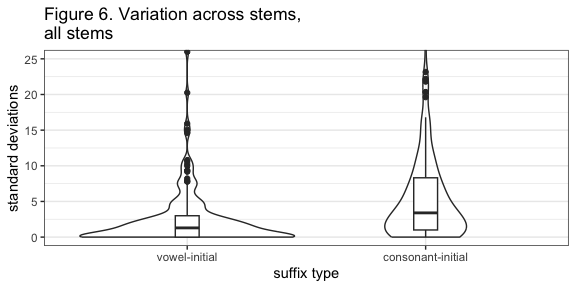
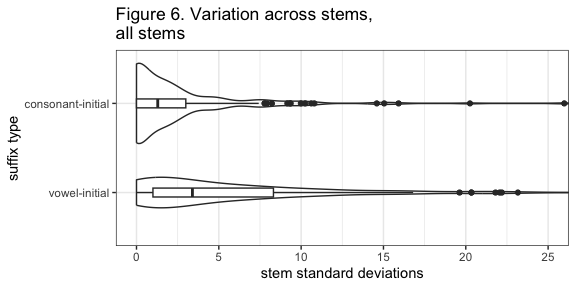
kesz

diff --git a/Readme.md b/Readme.md
@@ -7,27 +7,48 @@ Rácz, Péter & Rebrus, Péter
 
 This readme uses Hungarian orthography. Hungarian is largely phonemic,
 uses accents for vowel frontedness and length and digraphs for some
-consonants. Notable differences: \<a\> (\[ɒ\]), \<e\> (\[ɛ\]), \<á\>
-(\[aː\]), \<é\> (\[eː\]), \<í\> (\[iː\]), \<ó\> (\[oː\]), \<ö\> (\[ø\]),
-\<ő\> (\[øː\]), \<ú\> (\[uː\]), \<ü\> (\[y\]), \<ű\> (\[yː\]), \<cs\>
-(\[tʃ\]), \<dz\> (\[dz\]), \<dzs\> (\[dʒ\]), \<gy\> (\[ɟ\]), \<ly\>
-(\[j\]), \<ny\> (\[ɲ\]), \<sz\> (\[s\]), \<ty\> (\[c\]), \<zs\> (\[ʒ\]).
+consonants. Notable differences are listed in Table 1
 
-We refer to the suffixed postposition as “suffix” such that different
-word endings are different variants of the same suffix. We refer to the
+| spelling | IPA |
+|----------|-----|
+| a        | ɒ   |
+| e        | ɛ   |
+| á        | aː  |
+| é        | eː  |
+| í        | iː  |
+| ó        | oː  |
+| ö        | ø   |
+| ő        | øː  |
+| ú        | uː  |
+| ü        | y   |
+| ű        | yː  |
+| cs       | tʃ  |
+| dz       | dz  |
+| dzs      | dʒ  |
+| gy       | ɟ   |
+| ly       | j   |
+| ny       | ɲ   |
+| sz       | s   |
+| ty       | c   |
+| zs       | ʒ   |
+
+Table 1: Spelling and IPA for Hungarian special characters.
+
+We refer to the suffixed postposition as “suffix” so that different word
+endings are different variants of the same suffix. We refer to the
 unsuffixed stem and the lemma as “stem”. We refer to the suffixed stem
 as “form”.
 
 ## Background
 
 Hungarian shows vowel harmony. Noun suffixes typically have back- and
-front-vowel variants which are selected to agree with the last vowel of
-the stem: *Rómában* (Rome-ine), *Berlinnek* (Berlin-dat).
+front-vowel variants which agree with the last vowel of the stem:
+*Rómá-ban* (Rome-ine), *Berlin-nek* (Berlin-dat).
 
 Historically, \<eéií\> are transparent and skipped by vowel harmony:
-*Tallinban* (Tallin-loc), *Maléban* (Malé-ine). \<e\> has become
+*Tallin-ban* (Tallin-loc), *Malé-ban* (Malé-ine). \<e\> has become
 variable, meaning that back vowel + \<e\> stems vary between back and
-front suffixes: *Tangernak* / *Tangernek* (Tanger-dat).
+front suffixes: *Tanger-nak* / *Tanger-nek* (Tanger-dat).
 
 Suffixes can be vowel-initial, like the plural, or consonant-initial,
 like the dative: *Párizs-ok* (Paris-pl), *London-nak* (London-dat).
@@ -61,9 +82,9 @@ types that co-occur with these nouns. The resulting list has 200 stems
 and 4501 suffixed forms. All stems are consonant-final.
 
 A sample of the data for the stem *dzsungel* (jungle) can be seen in
-Table 1.
+Table 2.
 
-| suffix   | form        |  freq | examples              |
+| suffix   | form        |  freq | suffix examples       |
 |:---------|:------------|------:|:----------------------|
 | Pl       | dzsungelek  |  1010 | haverok, projektek    |
 | Pl       | dzsungelok  |     1 | haverok, projektek    |
@@ -83,19 +104,19 @@ Table 1.
 | All      | dzsungelhez |   146 | matekhoz, projekthez  |
 | All      | dzsungelhoz |     2 | matekhoz, projekthez  |
 
-Table 1: Sample long data for *dzsungel*
+Table 2: Sample long data for *dzsungel*
 
 Note that the stem shows back / front variation with most suffix tags
-(such as the inessive: *dzsungelben* n = 10604, *dzsungelban* n = 258,
+(such as the inessive: *dzsungel-ben* n = 10604, *dzsungel-ban* n = 258,
 “in the jungle”) but not all of them. For example, no back variant of
-the Poss.1Pl is attested (*dzsungelünk* n = 39, *dzsungelunk* n = 0,
+the Poss.1Pl is attested (*dzsungel-ünk* n = 39, *dzsungel-unk* n = 0,
 “our jungle”).
 
 We restricted the data to suffixed forms that do show back / front
 variation in the corpus, resulting in 161 stems and 1231 suffixed forms.
 We went on to calculate the log odds ratio of back and front forms for
-each suffixed form (`log( back / front )`. A sample of the resulting
-data for “dzsungel” can be seen in Table 2.
+each suffixed form (`log( back / front )`). A sample of the resulting
+data for “dzsungel” can be seen in Table 3.
 
 | suffix | back | front | log_odds_back |
 |:-------|-----:|------:|--------------:|
@@ -110,7 +131,7 @@ data for “dzsungel” can be seen in Table 2.
 | Del    |    9 |   103 |         -2.44 |
 | Ela    |   41 |   896 |         -3.08 |
 
-Table 2. Sample wide data for *dzsungel*
+Table 3. Sample wide data for *dzsungel*
 
 For each stem, we calculated the summed count of back / front variants
 across (1) all forms, (2) forms with consonant-initial suffixes, (3)
@@ -123,44 +144,46 @@ per stem to express how these vary
 
 ## Results
 
-out of 200 back vowel + \<e\> stems show back / front variation with at
-least one suffix. These stems have a bias towards front forms. This can
-be seen in Figure 1.
+164 out of 200 back vowel + \<e\> stems show back / front variation with
+at least one suffix. These stems have a bias towards front forms. This
+can be seen in Figure 1. The Figure is a histogram of the log odds of
+back / front forms for variable stems. Probability is indicated on the
+top horizontal axis.
 
 ![](figures/hist2-1.png)<!-- -->
 
 The median of the distribution is p = 0.051. 50% of variable stems are
 either below p = 0.004 or above p = 0.186.
 
-Stem preference is determined by lexical stratum. A way to illustrate
-this is to look at the top and bottom 5 variable stems in the data, as
-seen in Table 3.
+Stem preference is determined by lexical stratum. We can illustrate this
+by sorting variable stems across back form preference and drawing the
+top five and bottom five, as seen in Table 4.
 
-| stem     | intercept |      p |
-|:---------|----------:|-------:|
-| haver    |    4.7303 | 0.9913 |
-| matek    |    4.1942 | 0.9851 |
-| fater    |    3.3443 | 0.9659 |
-| maszek   |    3.2600 | 0.9630 |
-| balek    |    3.1432 | 0.9586 |
-| kódex    |   -7.8389 | 0.0004 |
-| szoftver |   -8.0510 | 0.0003 |
-| projekt  |   -8.2019 | 0.0003 |
-| szovjet  |   -8.2899 | 0.0003 |
-| docens   |   -8.5131 | 0.0002 |
-| koncert  |   -8.9091 | 0.0001 |
+|  no | stem     | intercept |      p |
+|----:|:---------|----------:|-------:|
+|   1 | haver    |    4.7303 | 0.9913 |
+|   2 | matek    |    4.1942 | 0.9851 |
+|   3 | fater    |    3.3443 | 0.9659 |
+|   4 | maszek   |    3.2600 | 0.9630 |
+|   5 | balek    |    3.1432 | 0.9586 |
+| 156 | kódex    |   -7.8389 | 0.0004 |
+| 157 | szoftver |   -8.0510 | 0.0003 |
+| 158 | projekt  |   -8.2019 | 0.0003 |
+| 159 | szovjet  |   -8.2899 | 0.0003 |
+| 160 | docens   |   -8.5131 | 0.0002 |
+| 161 | koncert  |   -8.9091 | 0.0001 |
 
-Table 3. Top five and bottom five variable stems in the corpus
+Table 4. Top five and bottom five variable stems in the corpus
 
-The top five stems which are most likely to prefer a back suffix are all
-informal words. These are either borrowings that traversed a
+The top five stems (1-5) which are most likely to prefer a back suffix
+are all informal words. These are either borrowings that traversed a
 considerable semantic shift (*balek*, meaning “gullible idiot”, comes
 from Turkish *balık*, “fish”, *haver*, meaning “pal”, comes from Hebrew
 *חבר*, “friend”, *fater*, meaning “daddy”, comes from German *Vater*,
 meaning “father”)
 
-The bottom five (lest likely to prefer a back suffix) are all learned
-borrowings.
+The bottom five (156-161, least likely to prefer a back suffix) are all
+learned borrowings.
 
 Forró (2013) proposed a diachronic explanation for the informal /
 learned split. Historically, the language had open \[ɛ\] and closed
@@ -176,7 +199,7 @@ So far, we have seen that specific stems show a preference for back or
 front forms, and that this can be tied to historical lexical strata.
 Stem-based variation further displays an apparent asymmetry across
 consonant-initial versus vowel-initial suffixes. This can be seen in
-Table 4, which shows a subset of suffixed forms for the mostly
+Table 5, which shows a subset of suffixed forms for the mostly
 back-preferring stem *haver* and the mostly front stem *koncert*.
 
 | stem    | form         | suffix      | suffix_vowel | suffix_initial |  freq |
@@ -228,7 +251,7 @@ back-preferring stem *haver* and the mostly front stem *koncert*.
 | koncert | koncerten    | Supe        | front        | V              | 86590 |
 | koncert | koncerton    | Supe        | back         | V              |     4 |
 
-Table 4. Delative, plural, sublative, and superlative suffixed forms for
+Table 5. Delative, plural, sublative, and superlative suffixed forms for
 *haver* and *koncert*
 
 When we look at *haver*, we see that it overwhelmingly prefers back
@@ -256,7 +279,10 @@ with vowel-initial and consonant-initial suffixes only. Each line
 expresses the ratio of back preference with vowel- versus
 consonant-initial suffixes. For *haver*, seen on top in the left, this
 is very much a positive relationship. For *koncert*, seen at the bottom
-in the right, this is a weaker negative relationship.
+in the right, this is a weaker negative relationship. Note that this is
+the set in which each stem varies with at least one consonant- and one
+vowel-initial suffix. Even so, the tails of the distribution show very
+strong back/front preference, where `p(back)` is below .01 or above .99.
 
 What we see is an interactive, rather than additive, relationship
 between stem-level and suffix-level variation. If the stem prefers back
@@ -286,12 +312,12 @@ strong preference for back suffixed forms (the *haver* category) show an
 exacerbated preference with vowel-initial suffixes.
 
 Given the front-bias of the distribution, this translates to a linear
-increase across stems that show meaningful variation (\> p = 0.02, the
+increase across stems that show meaningful variation (p \> 0.01, the
 gray line in Figure 3). We can quantify this by subsetting the stems to
 those right of the gray line in Figure 3 and testing the correlation
 between the overall preference (x axis) and the preference difference (y
-axis). The correlation is robustly positive (r = 0.72, 95%CI
-\[0.58;0.82\], using a two-sided Pearson correlation).
+axis). The correlation is robustly positive (r = 0.71, 95%CI
+\[0.57;0.8\], using a two-sided Pearson correlation).
 
 This shows that stem-level preference has a significant relationship
 with the change between vowel- and consonant-suffix preference across
@@ -307,30 +333,38 @@ with vowel-initial suffixes, specifically.
 Why do we see an asymmetry between vowel-initial and consonant-initial
 suffixes? What lexical patterns does this asymmetry represent? In order
 to answer this question, we have to first look at the distribution of
-the suffixes themselves, independent of the stems. Overall, there is
+the suffixes themselves, putting the stems aside. Overall, there is
 roughly the same amount of consonant- and vowel-initial suffix types in
 our dataset. Their frequency distribution is very different: the two
 most frequent suffixes are the plural and the accusative, and these
 happen to be both vowel-initial. The plural in itself is about 30% of
 all forms and 50% of all forms with a vowel-initial suffix. This can be
-seen in Figure 4.
+seen in Figure 4. Each area is labelled with the name of a given suffix
+type and represents raw frequency in the entire dataset. The two
+supersets are vowel-initial (dark gray) and consonant-initial suffixes
+(light gray).
 
 ![](figures/suffix_dist-1.png)<!-- -->
 
 For any given stem, the vast majority of back / front variation in
 vowel-initial suffixes will likely come from the plural. For
-consonant-initial suffixes, this will be more evened out. This means
-that stems vary more across consonant-initial suffixes.
+consonant-initial suffixes, this will be more evened out, with multiple
+suffixes equally contributing to variation. That is, stems vary more
+across consonant-initial suffixes.
 
 We can express this by calculating the standard deviation of the back /
 front variation for each stem across vowel- and consonant-initial
 suffixes.
 
-We can plot the distribution of standard deviations for
-consonant-initial and vowel-initial suffixes across stems and suffixes
-that do show variation, using the formula `sqrt(n * p * (1 - p))` where
-n is the number of forms per stem and suffix type and p is the overall
-probability of back forms. This can be seen in Figure `fcounter`.
+We can calculate stem variance standard deviations across
+consonant-initial versus vowel-initial suffixes using the formula
+`sqrt(n * p * (1 - p))` where n is the number of forms per stem and
+suffix type and p is the overall probability of back forms. We can plot
+the distribution of standard deviations for consonant-initial and
+vowel-initial suffixes across stems and suffixes that do show variation.
+This can be seen in Figure `r`fcounter\`. The figure shows the
+distribution of stem standard deviations (horizontal axis) across vowel-
+and consonant-initial suffixes (vertical axis).
 
 ![](figures/dream1-1.png)<!-- -->
 
@@ -391,4 +425,4 @@ variation in stem, we expect Model 1 to provide a better fit than Model
 2, even taking into account its additional complexity.
 
 This is indeed what we find: the more complex model provides a better
-fit (Chisq = 2.502852^{4}, p \< .001, using a likelihood test).
+fit (Chisq = 2.5029^{4}, p \< .001, using a likelihood test).
